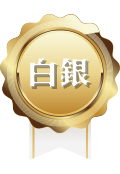
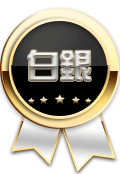
111-11-04
VIP卡片更換

diff --git a/html/vip.html b/html/vip.html
@@ -100,6 +100,61 @@
                                     <p>500000.00</p>
                                 </div>
                             </li>
+                            <li class="vip3">
+                                <div class="medal v3"></div>
+                                <div class="textBox">
+                                    會員總存金額
+                                    <p>100000.00</p>
+                                </div>
+                                <div class="textBox">
+                                    總投注量
+                                    <p>500000.00</p>
+                                </div>
+                            </li>
+                            <li class="vip4">
+                                <div class="medal v4"></div>
+                                <div class="textBox">
+                                    會員總存金額
+                                    <p>100000.00</p>
+                                </div>
+                                <div class="textBox">
+                                    總投注量
+                                    <p>500000.00</p>
+                                </div>
+                            </li>
+                            <li class="vip5">
+                                <div class="medal v5"></div>
+                                <div class="textBox">
+                                    會員總存金額
+                                    <p>100000.00</p>
+                                </div>
+                                <div class="textBox">
+                                    總投注量
+                                    <p>500000.00</p>
+                                </div>
+                            </li>
+                            <li class="vip6">
+                                <div class="medal v6"></div>
+                                <div class="textBox">
+                                    會員總存金額
+                                    <p>100000.00</p>
+                                </div>
+                                <div class="textBox">
+                                    總投注量
+                                    <p>500000.00</p>
+                                </div>
+                            </li>
+                            <li class="vip7">
+                                <div class="medal v7"></div>
+                                <div class="textBox">
+                                    會員總存金額
+                                    <p>100000.00</p>
+                                </div>
+                                <div class="textBox">
+                                    總投注量
+                                    <p>500000.00</p>
+                                </div>
+                            </li>
                         </ul>
                     </div>
                     <i class="next"></i>

diff --git a/scss/_imgStyle.scss b/scss/_imgStyle.scss
@@ -334,6 +334,34 @@ footer .active .center_ic {
     background: url('../images/medal.png') no-repeat center;
     background-size: contain;
 }
+.vipWrap .medal.v1 {
+    background: url('../images/medal_2.png') no-repeat center;
+    background-size: contain;
+}
+.vipWrap .medal.v2 {
+    background: url('../images/medal_3.png') no-repeat center;
+    background-size: contain;
+}
+.vipWrap .medal.v3 {
+    background: url('../images/medal_4.png') no-repeat center;
+    background-size: contain;
+}
+.vipWrap .medal.v4 {
+    background: url('../images/medal_5.png') no-repeat center;
+    background-size: contain;
+}
+.vipWrap .medal.v5 {
+    background: url('../images/medal_6.png') no-repeat center;
+    background-size: contain;
+}
+.vipWrap .medal.v6 {
+    background: url('../images/medal_7.png') no-repeat center;
+    background-size: contain;
+}
+.vipWrap .medal.v7 {
+    background: url('../images/medal_8.png') no-repeat center;
+    background-size: contain;
+}
 .vipWrap .cardBox i {
     background: url('../images/icon/arrow_1.png') no-repeat center;
     background-size: contain;
@@ -348,6 +376,26 @@ footer .active .center_ic {
 }
 .vipWrap .cardBox .card li.vip2 {
     background: url('../images/vip_card_3.png') no-repeat;
+    background-size: 100%;
+}
+.vipWrap .cardBox .card li.vip3 {
+    background: url('../images/vip_card_4.png') no-repeat;
+    background-size: 100%;
+}
+.vipWrap .cardBox .card li.vip4 {
+    background: url('../images/vip_card_5.png') no-repeat;
+    background-size: 100%;
+}
+.vipWrap .cardBox .card li.vip5 {
+    background: url('../images/vip_card_6.png') no-repeat;
+    background-size: 100%;
+}
+.vipWrap .cardBox .card li.vip6 {
+    background: url('../images/vip_card_7.png') no-repeat;
+    background-size: 100%;
+}
+.vipWrap .cardBox .card li.vip7 {
+    background: url('../images/vip_card_8.png') no-repeat;
     background-size: 100%;
 }
 .vipWrap .checkBtn .arrow_ic {
@@ -537,9 +585,9 @@ footer .active .center_ic {
 
 
 //header - logo
-// header .logo {
-//     width: 95px;
-// }
+ header .logo {
+     width: 82px;
+ }
 
 //ad - banner
 .single-item {

diff --git a/css/style.css b/css/style.css
@@ -394,6 +394,41 @@ footer .active .center_ic {
   background-size: contain;
 }
 
+.vipWrap .medal.v1 {
+  background: url("../images/medal_2.png") no-repeat center;
+  background-size: contain;
+}
+
+.vipWrap .medal.v2 {
+  background: url("../images/medal_3.png") no-repeat center;
+  background-size: contain;
+}
+
+.vipWrap .medal.v3 {
+  background: url("../images/medal_4.png") no-repeat center;
+  background-size: contain;
+}
+
+.vipWrap .medal.v4 {
+  background: url("../images/medal_5.png") no-repeat center;
+  background-size: contain;
+}
+
+.vipWrap .medal.v5 {
+  background: url("../images/medal_6.png") no-repeat center;
+  background-size: contain;
+}
+
+.vipWrap .medal.v6 {
+  background: url("../images/medal_7.png") no-repeat center;
+  background-size: contain;
+}
+
+.vipWrap .medal.v7 {
+  background: url("../images/medal_8.png") no-repeat center;
+  background-size: contain;
+}
+
 .vipWrap .cardBox i {
   background: url("../images/icon/arrow_1.png") no-repeat center;
   background-size: contain;
@@ -411,6 +446,31 @@ footer .active .center_ic {
 
 .vipWrap .cardBox .card li.vip2 {
   background: url("../images/vip_card_3.png") no-repeat;
+  background-size: 100%;
+}
+
+.vipWrap .cardBox .card li.vip3 {
+  background: url("../images/vip_card_4.png") no-repeat;
+  background-size: 100%;
+}
+
+.vipWrap .cardBox .card li.vip4 {
+  background: url("../images/vip_card_5.png") no-repeat;
+  background-size: 100%;
+}
+
+.vipWrap .cardBox .card li.vip5 {
+  background: url("../images/vip_card_6.png") no-repeat;
+  background-size: 100%;
+}
+
+.vipWrap .cardBox .card li.vip6 {
+  background: url("../images/vip_card_7.png") no-repeat;
+  background-size: 100%;
+}
+
+.vipWrap .cardBox .card li.vip7 {
+  background: url("../images/vip_card_8.png") no-repeat;
   background-size: 100%;
 }
 
@@ -618,6 +678,10 @@ footer .active .center_ic {
 .goTop i {
   background: url("../images/icon/arrow_2.png") no-repeat center;
   background-size: contain;
+}
+
+header .logo {
+  width: 82px;
 }
 
 .single-item {

diff --git a/html/index_inner.html b/html/index_inner.html
@@ -27,8 +27,7 @@
                 </select>
             </label>
             <!--logo-->
-            <!-- <img src="./images/icon/logo.png" class="logo"> -->
-            <p class="logo">LOGO</p>
+            <img src="../images/icon/logo.png" class="logo">
             <i class="mail_ic"></i>
             <!-- <div class="inviteBtn"></div> -->
         </div>

diff --git a/index.html b/index.html
@@ -27,8 +27,7 @@
                 </select>
             </label>
             <!--logo-->
-            <!-- <img src="./images/icon/logo.png" class="logo"> -->
-            <p class="logo">LOGO</p>
+            <img src="./images/icon/logo.png" class="logo">
             <i class="mail_ic"></i>
             <!-- <div class="inviteBtn"></div> -->
         </div>
